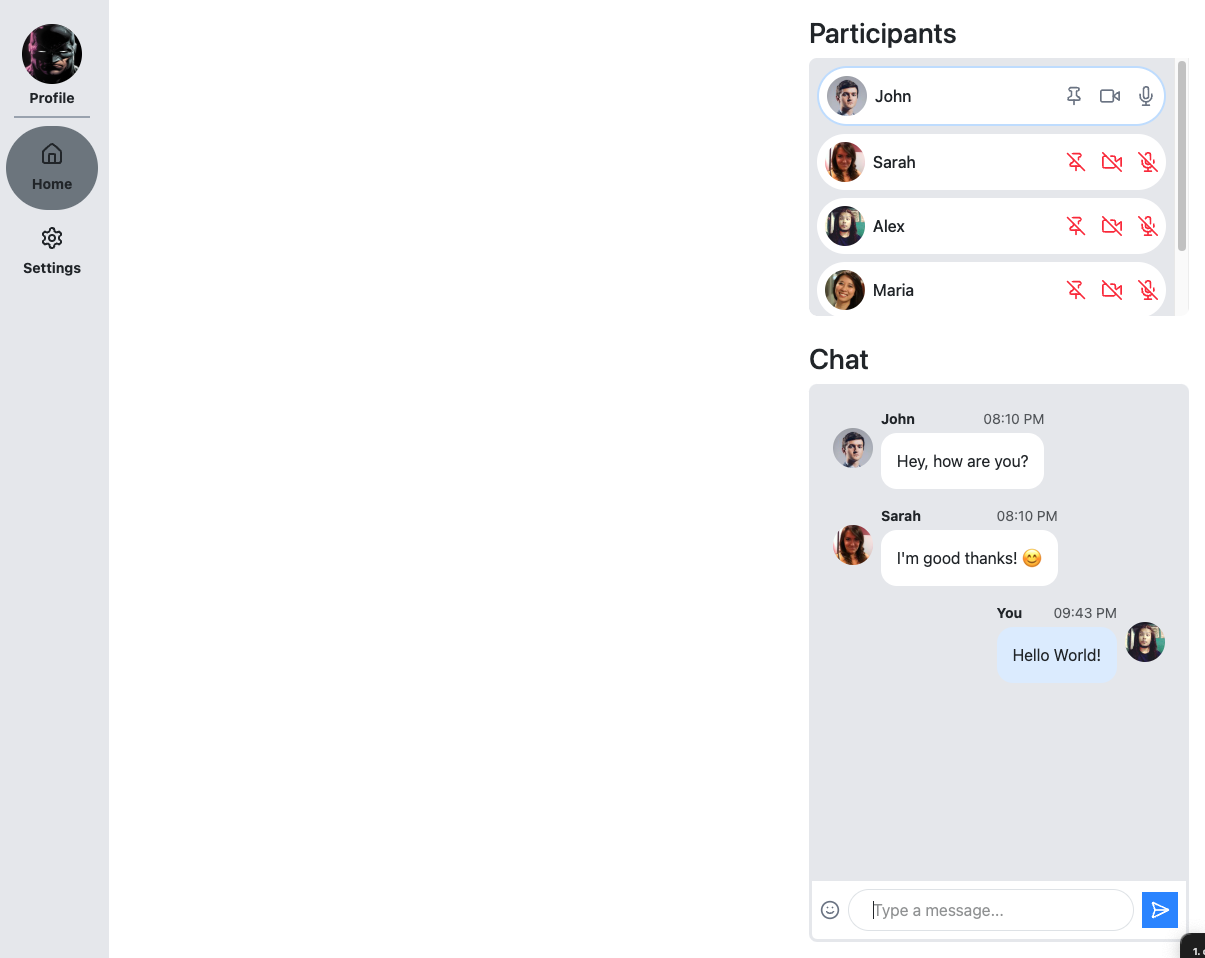
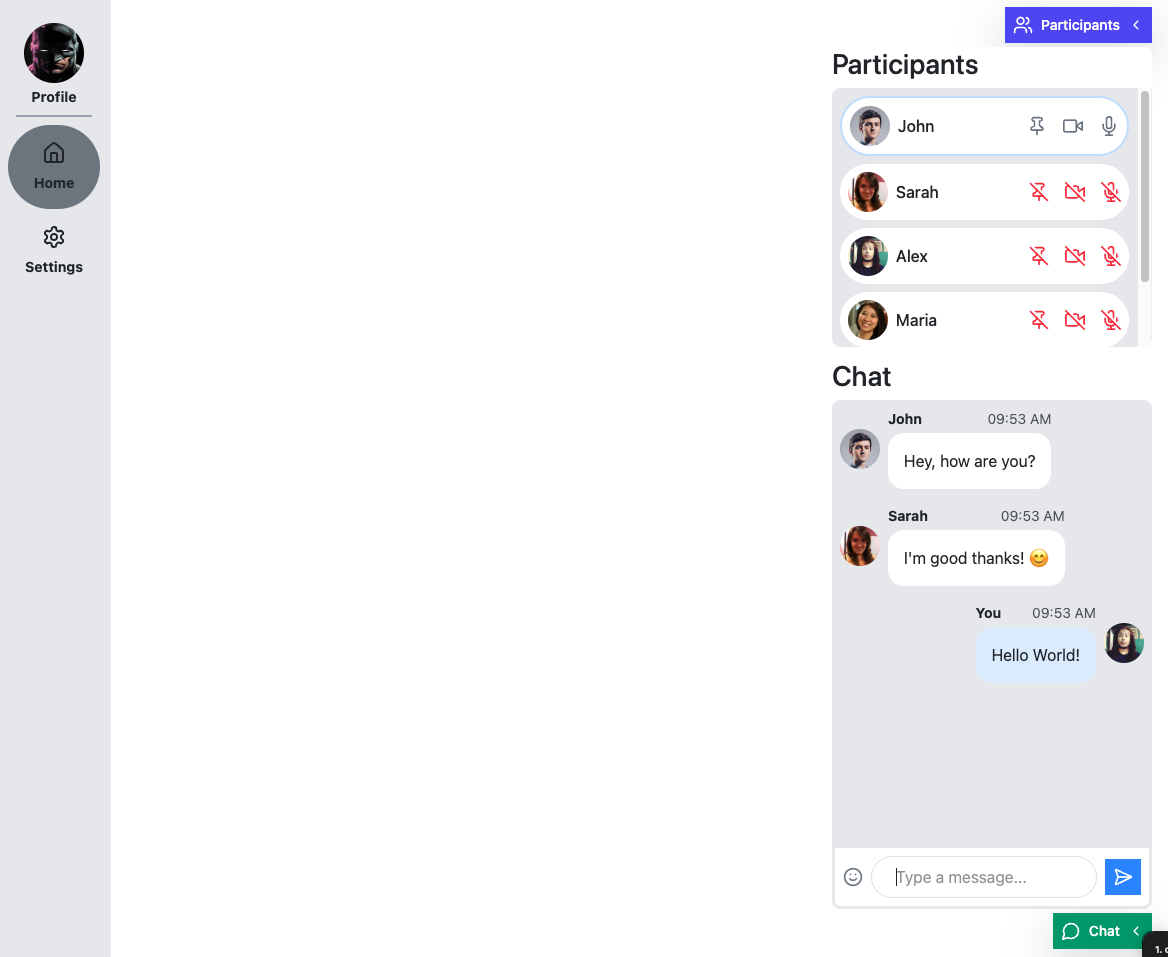
Fixing Chat and Participants size while adding hidden-view buttons

Changed region(s): [[0.6473, 0.0, 1.0, 1.0], [0.0, 0.0, 0.0925, 0.303]]

diff --git a/client/src/Components/Home.tsx b/client/src/Components/Home.tsx
@@ -1,19 +1,64 @@
 import { SideBar } from "./SideBar/SideBar";
 import { ChatWindow } from "./ChatWindow/ChatWindow";
 import { ParticipantList } from "./Participants/ParticipantList";
+import { useState } from "react";
+import { ChevronRight, ChevronLeft, Users, MessageCircle } from "lucide-react";
 
 export const Home = () => {
+  const [showParticipants, setShowParticipants] = useState(false);
+  const [showChat, setShowChat] = useState(false);
+
   return (
     <div className="flex flex-row h-screen relative">
       <div className="fixed top-0 left-0 h-full">
         <SideBar />
       </div>
 
-      <div className="fixed top-0 right-0 p-3">
+      <button
+        onClick={() => setShowParticipants(!showParticipants)}
+        className="fixed top-2 right-4 p-2 bg-indigo-600 text-white rounded-full shadow-lg hover:bg-indigo-700 transition-all duration-300 flex items-center gap-2 group"
+      >
+        <Users className="w-5 h-5" />
+        <span className="text-sm font-medium hidden md:inline">
+          Participants
+        </span>
+        {showParticipants ? (
+          <ChevronLeft className="w-4 h-4 transform group-hover:scale-110" />
+        ) : (
+          <ChevronRight className="w-4 h-4 transform group-hover:scale-110" />
+        )}
+      </button>
+
+      <div
+        className={`fixed top-12 right-4 transform transition-all duration-300 ease-out ${
+          showParticipants
+            ? "translate-x-0 opacity-100"
+            : "translate-x-full opacity-0 pointer-events-none"
+        }`}
+      >
         <ParticipantList />
       </div>
 
-      <div className="fixed bottom-0 right-0 p-3">
+      <button
+        onClick={() => setShowChat(!showChat)}
+        className="fixed bottom-2 right-4 p-2 bg-emerald-600 text-white rounded-full shadow-lg hover:bg-emerald-700 transition-all duration-300 flex items-center gap-2 group"
+      >
+        <MessageCircle className="w-5 h-5" />
+        <span className="text-sm font-medium hidden md:inline">Chat</span>
+        {showChat ? (
+          <ChevronLeft className="w-4 h-4 transform group-hover:scale-110" />
+        ) : (
+          <ChevronRight className="w-4 h-4 transform group-hover:scale-110" />
+        )}
+      </button>
+
+      <div
+        className={`fixed bottom-12 right-4 transform transition-all duration-300 ease-out ${
+          showChat
+            ? "translate-x-0 opacity-100"
+            : "translate-x-full opacity-0 pointer-events-none"
+        }`}
+      >
         <ChatWindow />
       </div>
     </div>

diff --git a/client/src/Components/ChatWindow/ChatWindow.tsx b/client/src/Components/ChatWindow/ChatWindow.tsx
@@ -64,9 +64,9 @@ export const ChatWindow = () => {
   };
 
   return (
-    <div className="flex flex-col h-[600px] w-95 bg-white overflow-hidden">
+    <div className="flex flex-col h-[550px] w-80 bg-white overflow-hidden">
       <h3 className="text-lg font-semibold mb-2">Chat</h3>
-      <div className="flex-1 overflow-y-auto rounded-t-lg p-4 bg-gray-200">
+      <div className="flex-1 overflow-y-auto rounded-t-lg p-2 bg-gray-200">
         {messages.map((message) => (
           <MessageBubble
             key={message.id}

diff --git a/client/src/Components/Participants/ParticipantList.tsx b/client/src/Components/Participants/ParticipantList.tsx
@@ -47,7 +47,7 @@ export const ParticipantList = () => {
   ]);
 
   return (
-    <div className="flex flex-col h-[300px] w-95 bg-white rounded-lg overflow-hidden">
+    <div className="flex flex-col h-[300px] w-80 bg-white rounded-lg overflow-hidden">
       <h3 className="text-lg font-semibold mb-2">Participants</h3>
       <div className="flex-1 overflow-y-auto rounded-lg p-2 bg-gray-200">
         {Participants.map((participant) => (

diff --git a/Readme.md b/Readme.md
@@ -1,6 +1,8 @@
 # Real-Time Video Conference Platform
 
 ![App Preview](./previews/1.png)
+![App Preview](./previews/2.png)
+![App Preview](./previews/3.png)
 
 A high-performance video conferencing solution with integrated ephemeral messaging, built using modern technologies for optimal performance and scalability.
 
